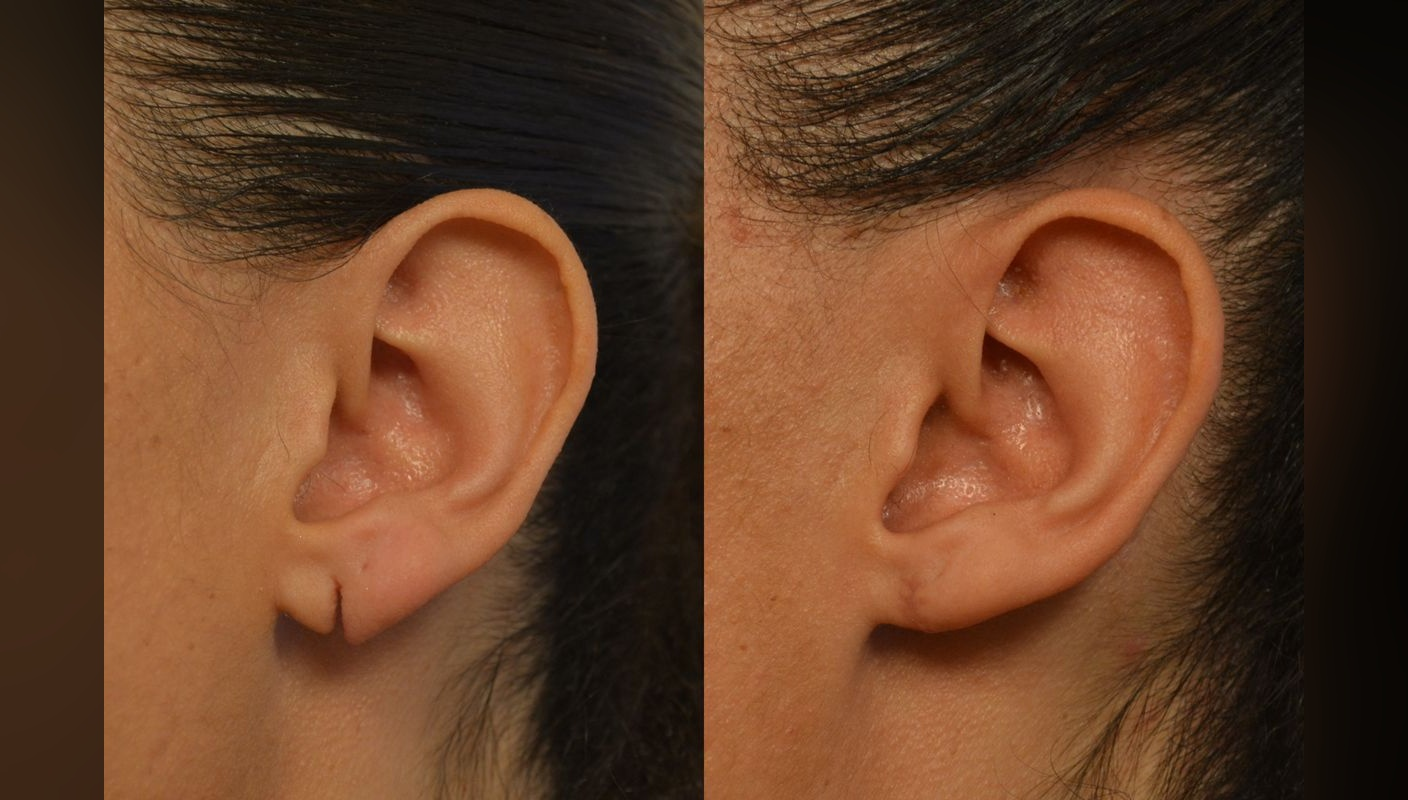
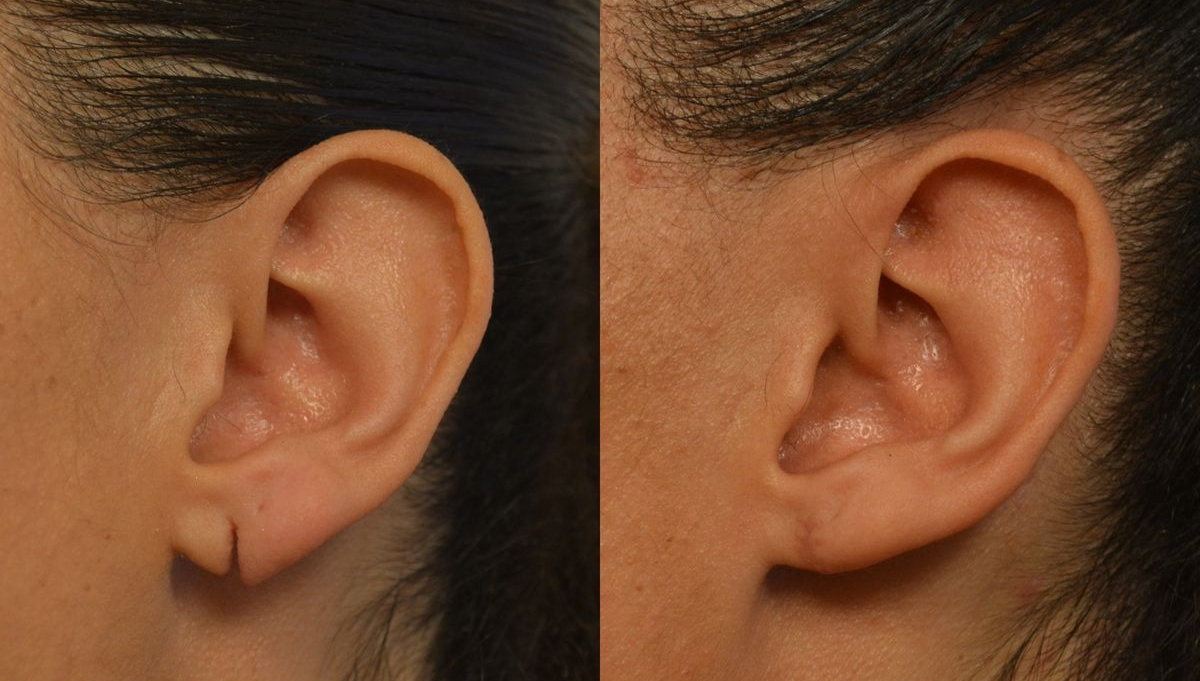
UI: Remove navigation buttons from piercing row & Crop card covers to 1.76 aspect ratio without borders

diff --git a/index.html b/index.html
@@ -2844,8 +2844,6 @@
               ⟶</span>
           </h3>
           <div class="row-container">
-            <button class="nav-btn nav-prev" aria-label="Rolar para esquerda"
-              onclick="scrollRow('piercing-scroller', -1)">‹</button>
             <div class="row-scroller" id="piercing-scroller" onscroll="handleScrollCheck(this)">
               
               <article id="card-piercing" class="card" onclick="openCatalogModal()">
@@ -2889,8 +2887,6 @@
               </article>
 
             </div>
-            <button class="nav-btn nav-next" aria-label="Rolar para direita"
-              onclick="scrollRow('piercing-scroller', 1)">›</button>
           </div>
         </section>
 
